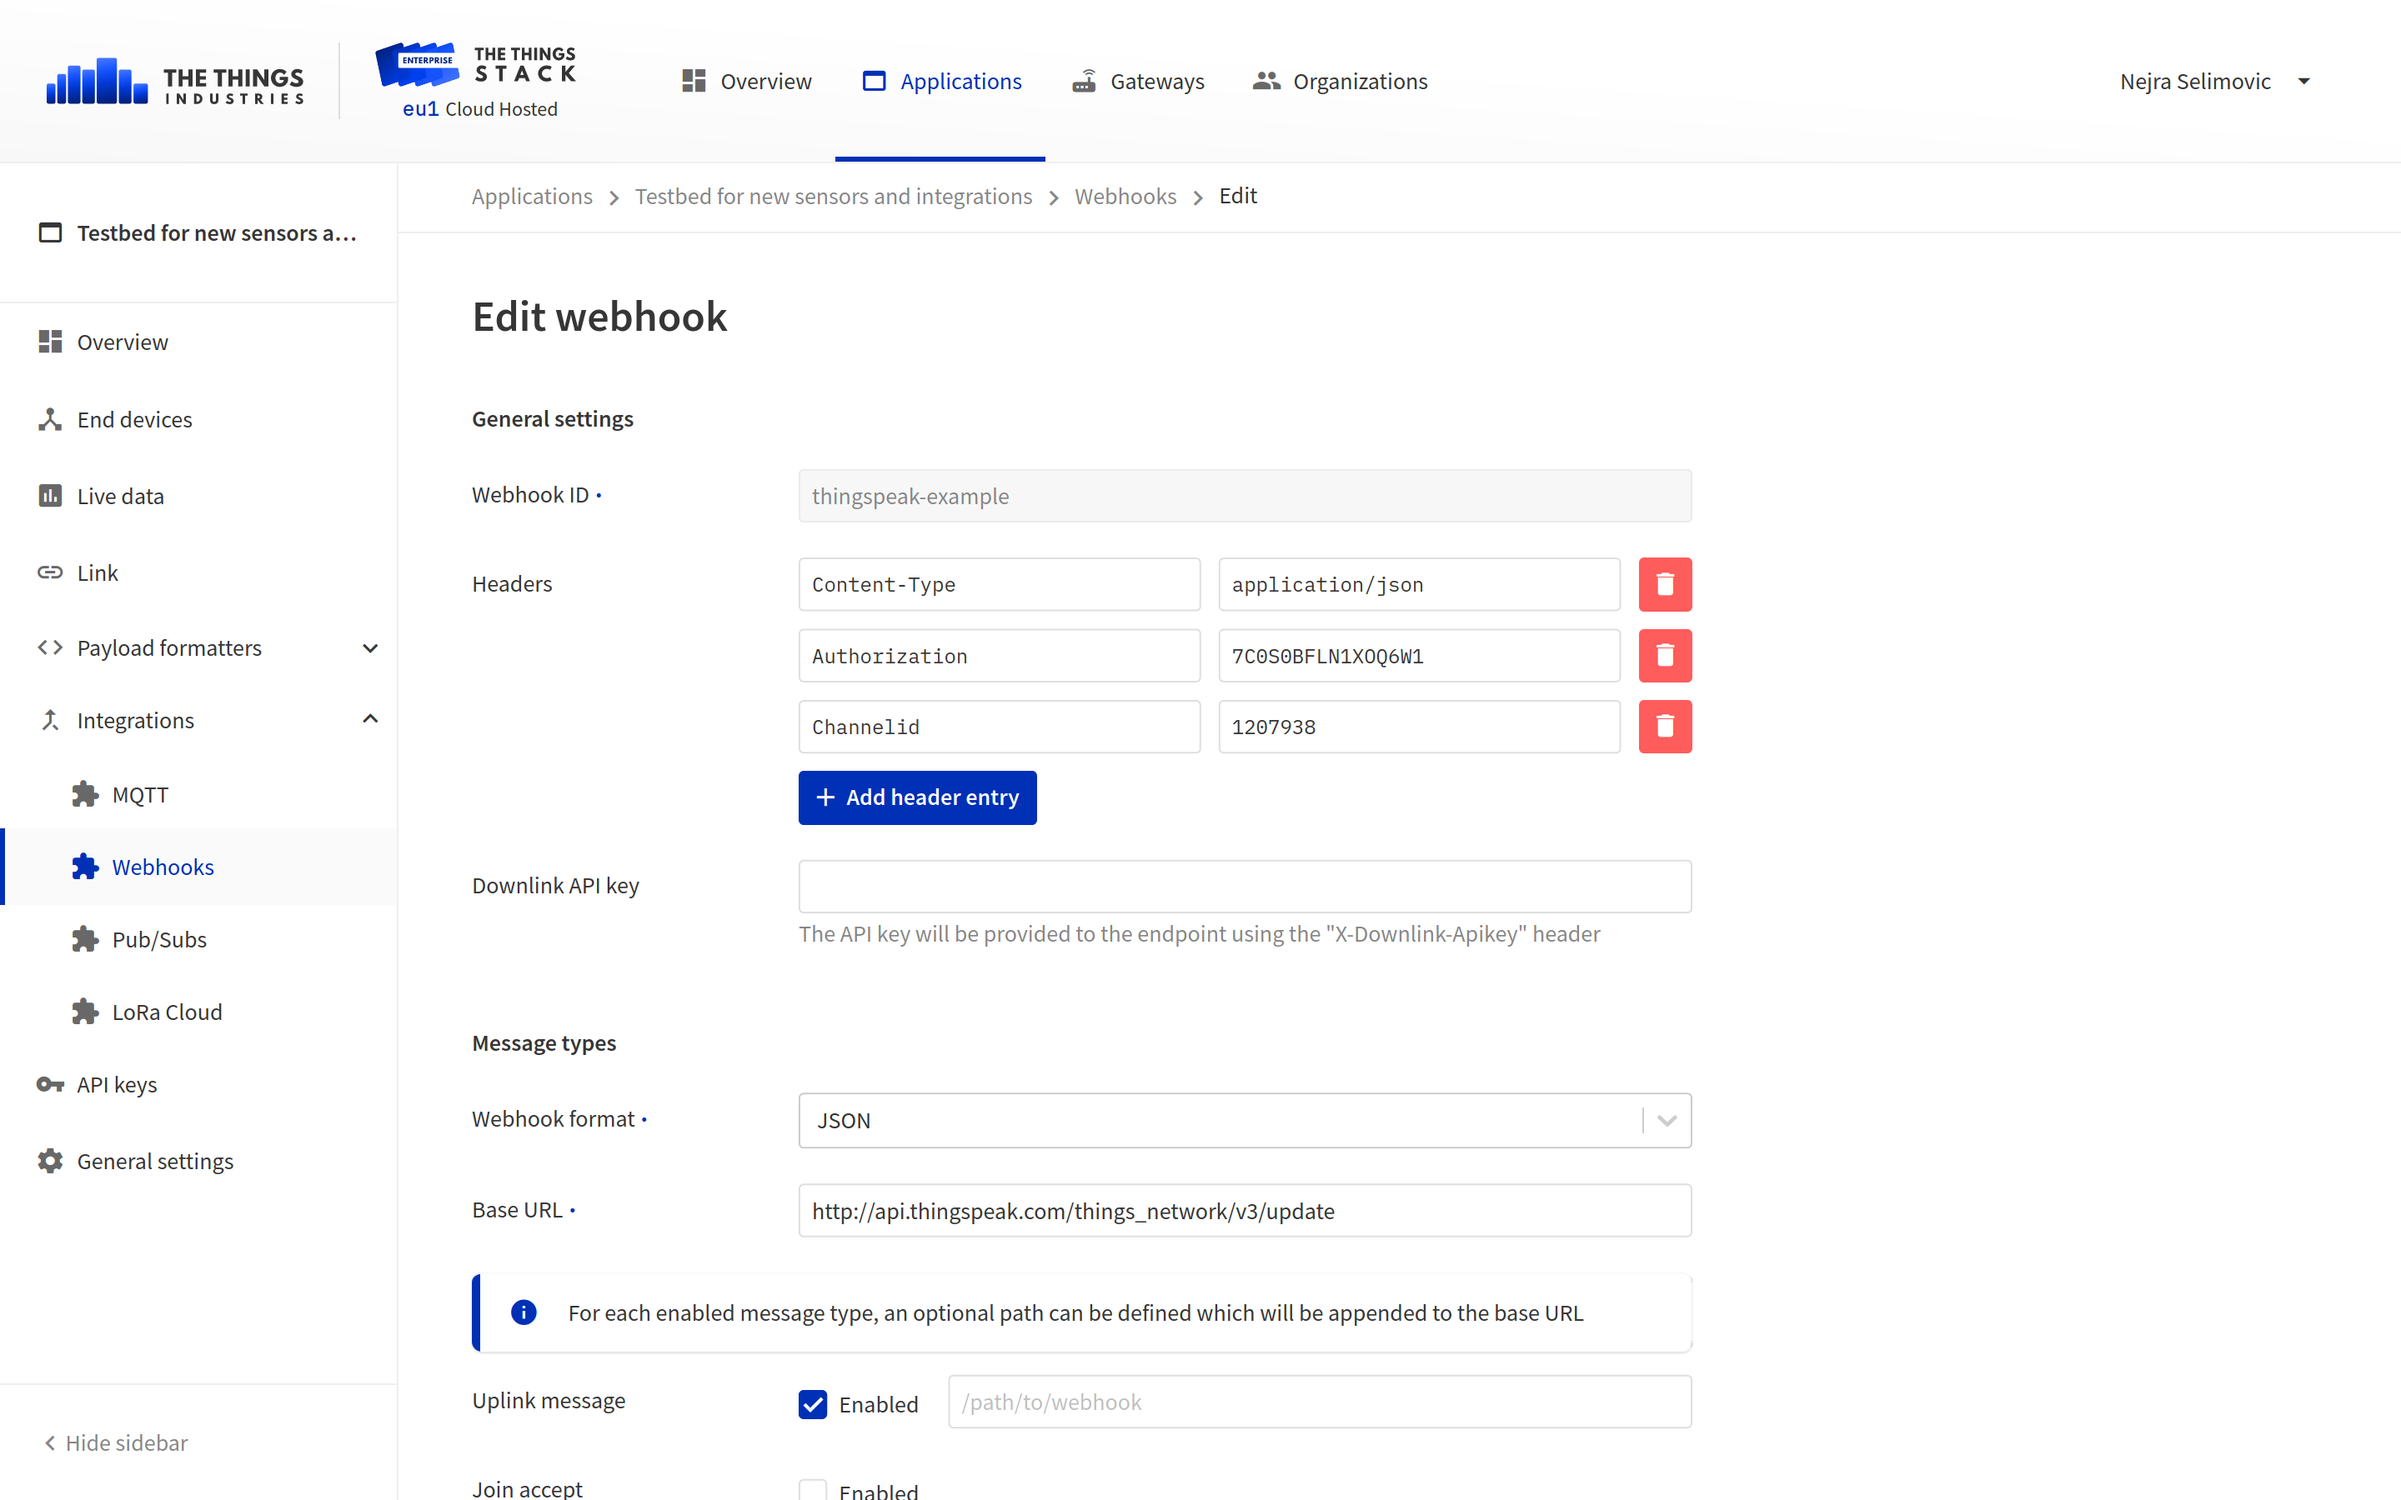
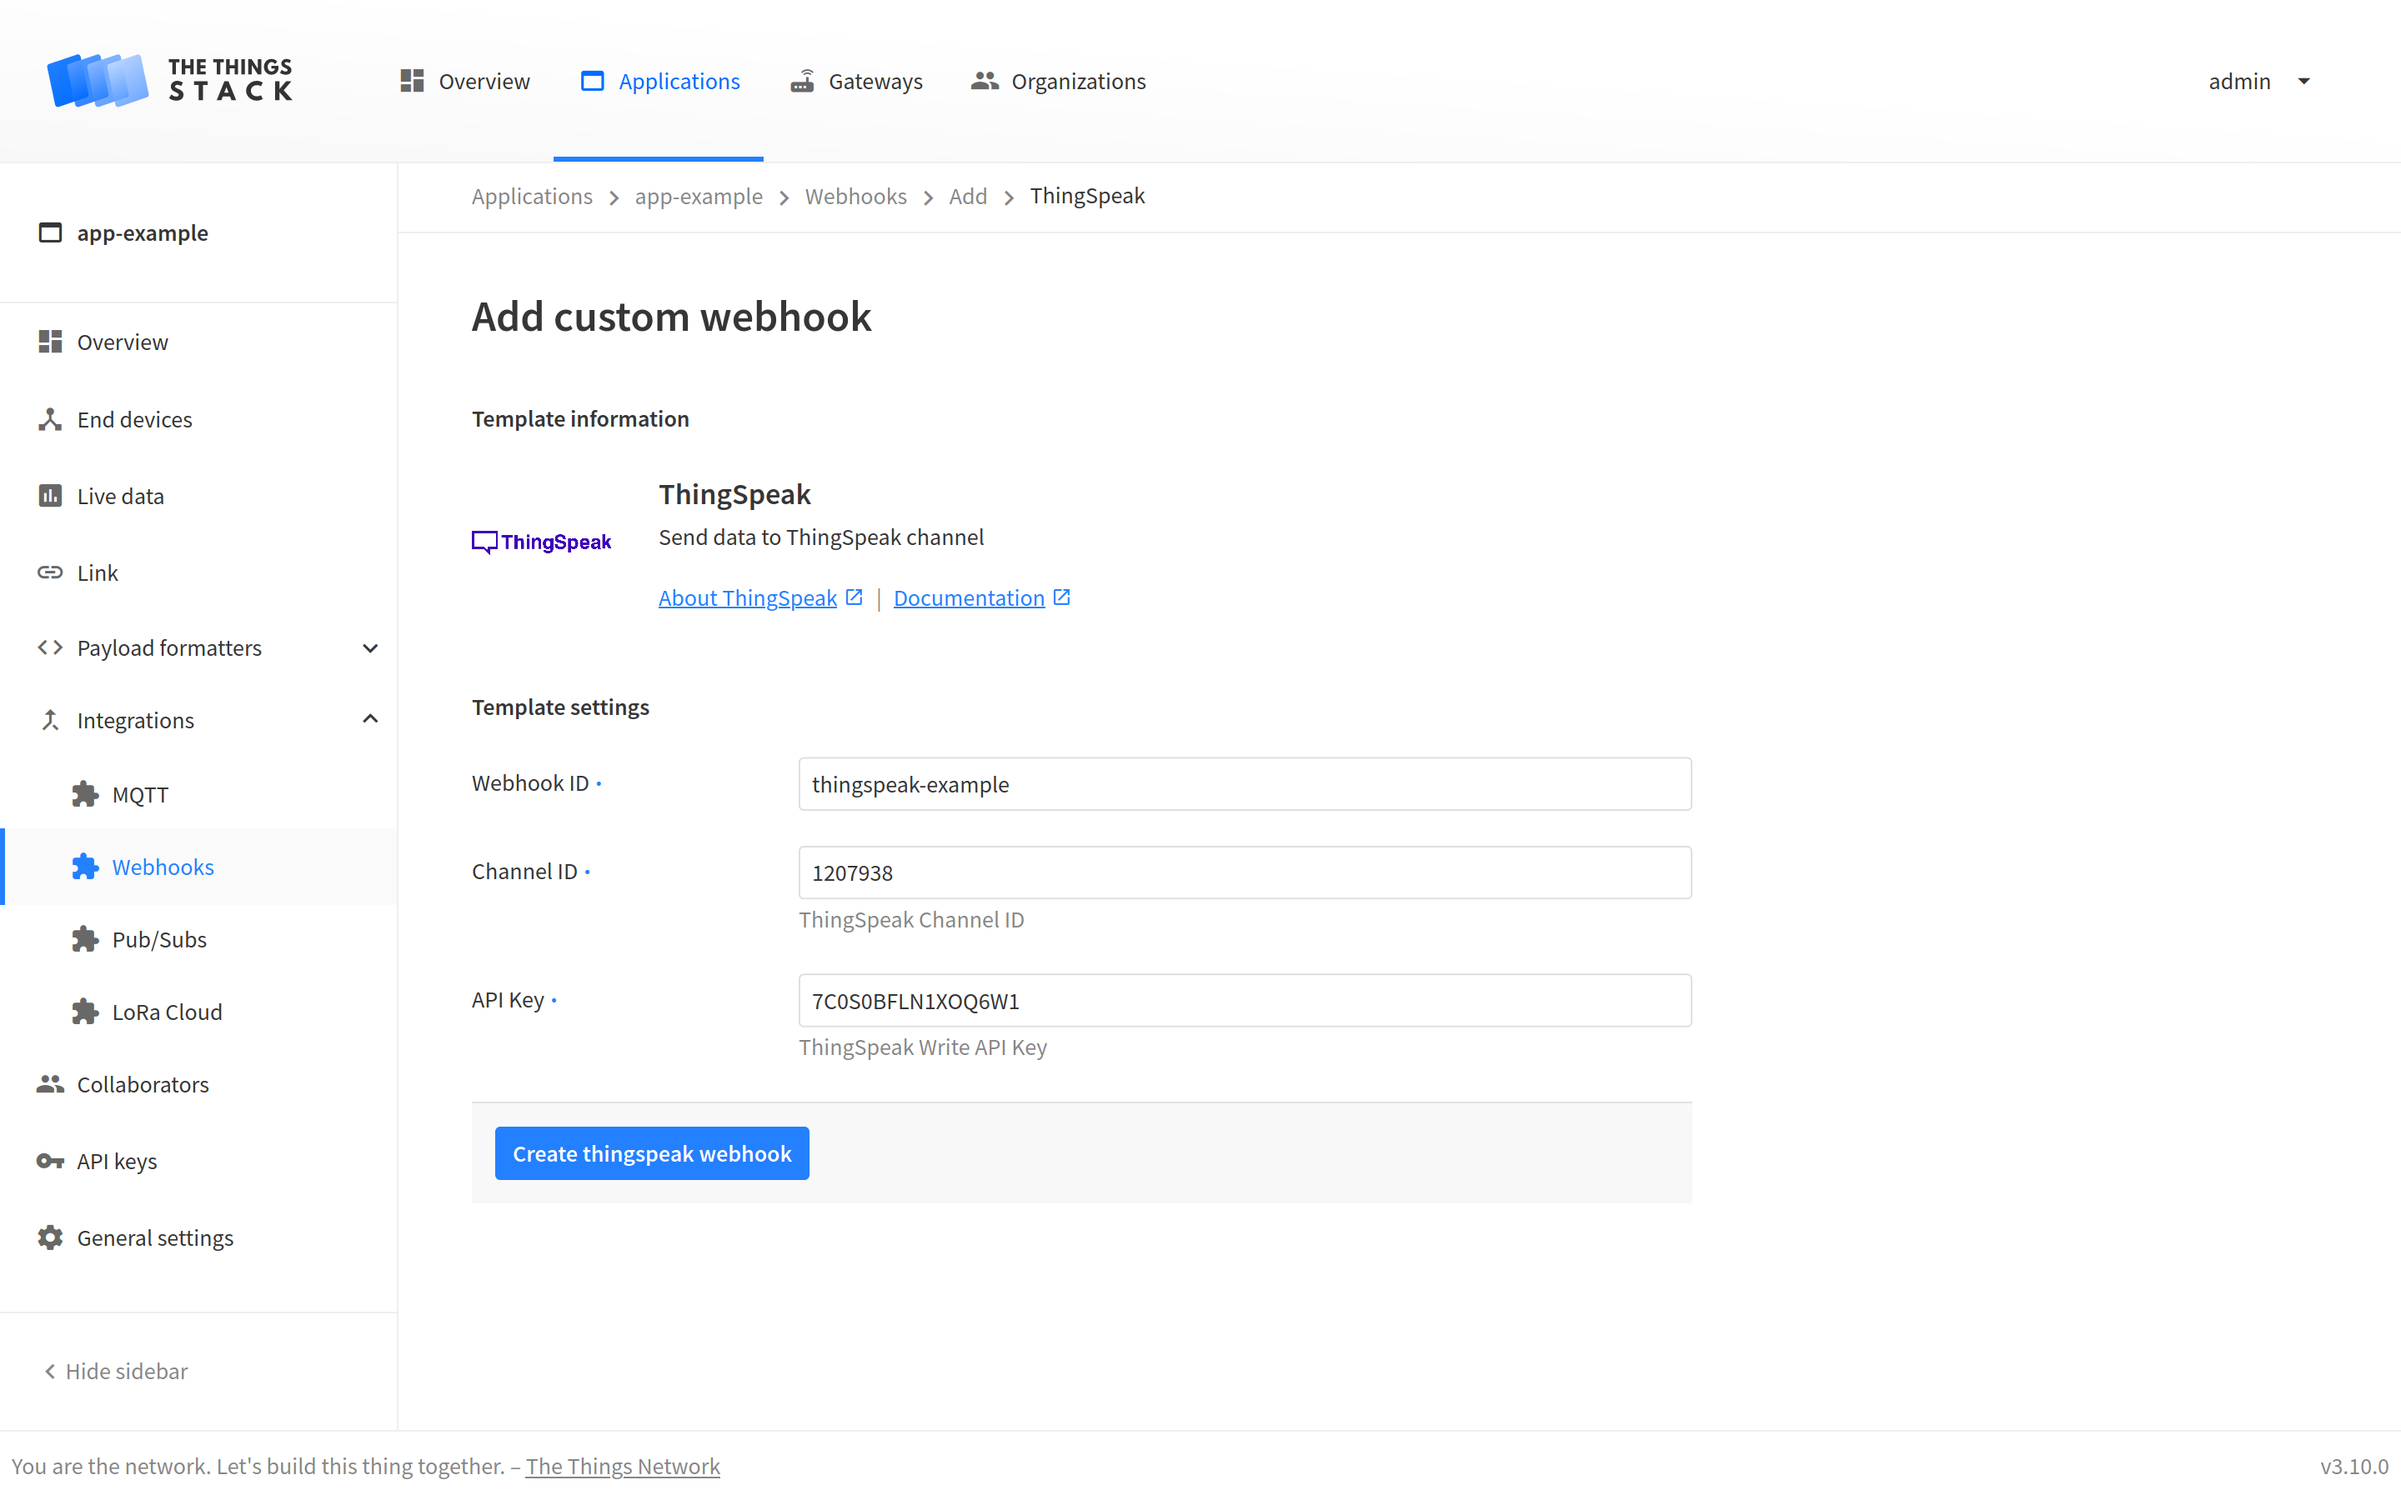
doc: Modify guide to use ThingSpeak webhook template

diff --git a/doc/content/integrations/cloud-integrations/thingspeak/tts-setup/_index.md b/doc/content/integrations/cloud-integrations/thingspeak/tts-setup/_index.md
@@ -4,25 +4,19 @@ description: ""
 weight: 2
 ---
 
-Once you have prepared the setup on ThingSpeak, follow this section to create a Webhook integration on {{% tts %}}.
+Once you have prepared the setup on ThingSpeak, follow this section to create a Webhook integration on {{% tts %}} by using the **ThingSpeak** [Webhook template]({{< ref "/integrations/webhooks/webhook-templates" >}}).
 
 <!--more-->
 
->**Note:** this section follows the [HTTP Webhooks]({{< ref "/integrations/webhooks" >}}) guide.  
+>**Note:** To see the values of all parameters of the ThingSpeak integration, click on the integration after you create it with the Webhook template. In case you need to create a **Custom webhook**, see the [Creating Webhooks]({{< ref "/integrations/webhooks/creating-webhooks" >}}) guide.
 
 >**Note:** Before implementing the Webhook integration, you need to create an uplink payload formatter in order to decode the uplink payload and set fields in the `decoded_payload` object of the uplink message. See [Payload Formatters]({{< ref "/integrations/payload-formatters" >}}) for a detailed info.
 
-Fill in the **Webhook ID** field. 
+Give a name to your integration by filling in the **Webhook ID** field. 
 
-Create an `Authorization` header entry and paste the **Write API Key** you copied from ThingSpeak in the value field.
+Fill in the **Channel ID** field with the ThingSpeak channel ID value, and paste the **Write API Key** from ThingSpeak in the **API Key** field.
 
-Create another header entry named `Channelid` and paste the **Channel ID** value from ThingSpeak as its value.
-
-Finally, add `Content-Type` header entry with `application/json` value.
-
-Choose **JSON** as a **Webhook format** and set the **Base URL** value to `http://api.thingspeak.com/things_network/v3/update`.
-
-Tick the box next to the uplink message type to trigger this webhook with every new uplink message.
+Finish by clicking the **Create thingspeak webhook** button.
 
 {{< figure src="creating-a-webhook.png" alt="ThingSpeak webhook" >}}
 
